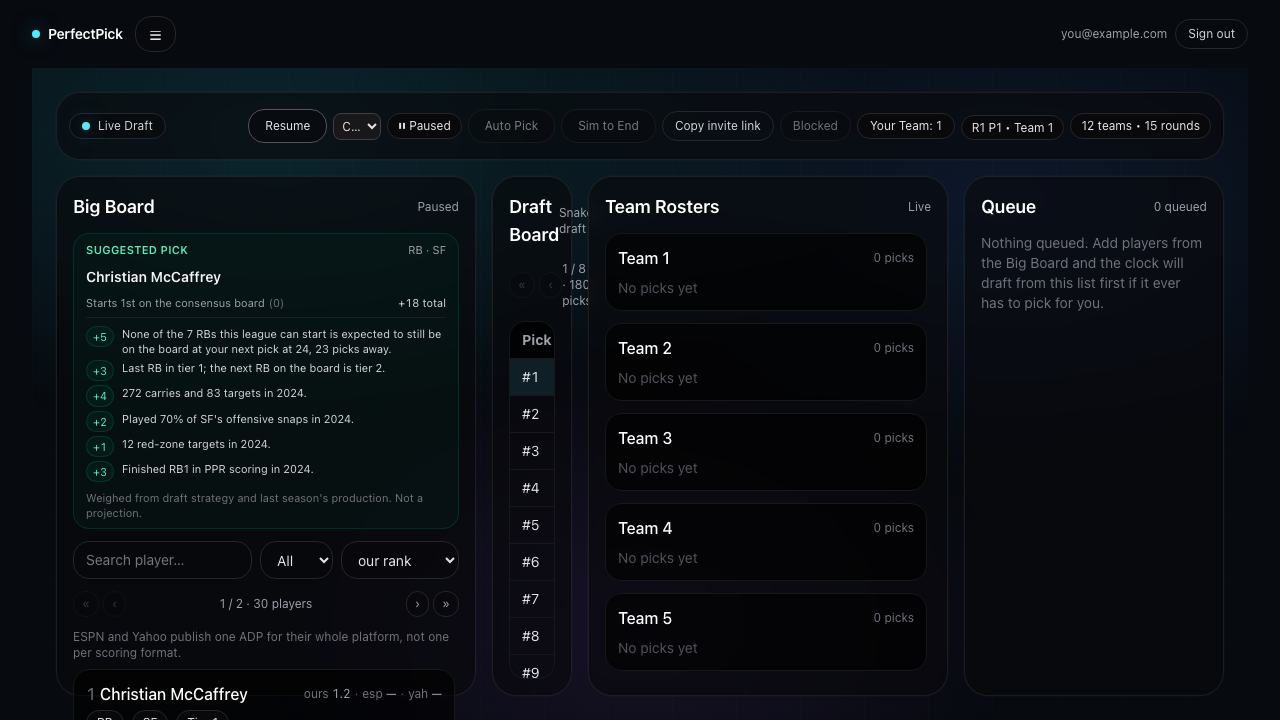
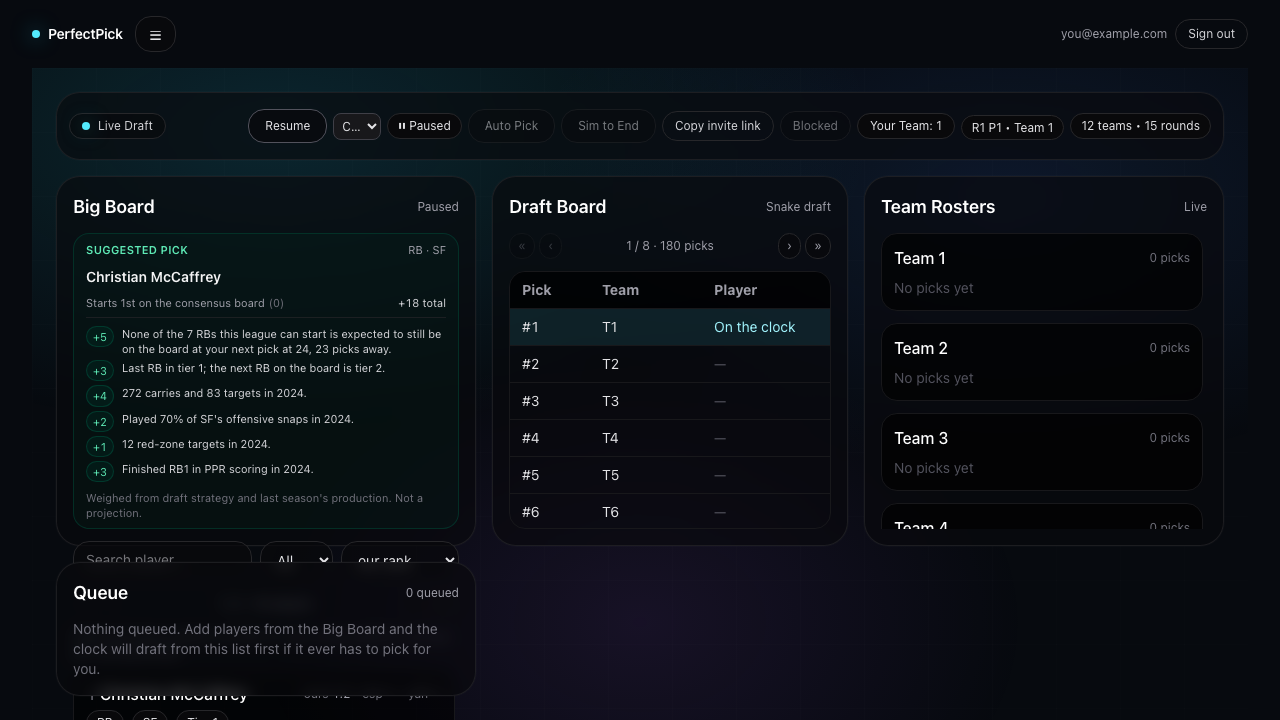
fix: the queue column belongs at 1600, not 1280
The plan put the fourth column at xl and I did the arithmetic for a 1600px
container without checking where that container actually applies. Measured
after it shipped: the Draft Board rendered at EIGHTY pixels at 1280 -- the
width the test suite itself runs at -- against a table that wants 620. It was
240 at 1440 and only reached today's 420 at about 1600.

The column and the widened container now share a 3xl breakpoint at 1600px.
Below it the layout is byte-identical to today (356 at 1280, 420 at 1440) and
the queue is a fourth cell in the three-column grid; above it there are four
columns and the Draft Board is WIDER than it is today (464 at 1728), because
the container widened with it.

3xl is a named breakpoint in @theme rather than an arbitrary min-[1600px]
variant, because Tailwind sorts arbitrary min-width variants BEFORE named
ones: the emitted xl:grid-cols rule sat after the min-[1600px] one and won at
every width above 1280. Silently -- the four-column layout simply never
applied, at any size. Found by reading byte offsets in the built CSS.

Tab labels shortened to Board / Draft / Rosters / Queue. "Draft Board" and
"Team Rosters" each wrapped to two lines the moment a fourth tab landed,
which the tab bar's own review predicted when there were three. The panels
keep their full headings.

diff --git a/frontend/src/pages/Draft.jsx b/frontend/src/pages/Draft.jsx
@@ -531,17 +531,15 @@ export default function Draft() {
 
       {/* Content */}
       {/*
-          xl:max-w-[1600px]: without this the container stayed capped at
-          1232px (max-w-7xl's 1280px minus this padding) regardless of the
-          monitor underneath -- a 1728px screen rendered the same 1232px a
-          1280px one did. Four columns inside that budget leave the Draft
-          Board 164px against a table that wants 620 (min-w-[620px] on its
-          own scroll container), which would have it scrolling horizontally
-          in a sliver on every screen. Widening at xl is what makes the
-          fourth column (the queue) free instead of paid for by the panel
-          that can least afford to shrink.
-      */}
-      <div className="relative mx-auto max-w-7xl xl:max-w-[1600px] px-6 py-6 min-h-full max-lg:h-full max-lg:px-3 max-lg:py-3 xl:h-full flex flex-col gap-4">
+          3xl (1600px): measured, not chosen. A fourth column only pays for
+          itself at about 1600px of viewport. Below that it is taken out of
+          the Draft Board, whose table wants 620px: at 1280 -- the width the
+          test suite itself runs at -- four fixed columns leave it EIGHTY
+          pixels. So the column and the widened container share one
+          breakpoint, and between lg and 1600 the queue is a fourth cell in
+          the three-column grid rather than a fourth column.
+        */}
+      <div className="relative mx-auto max-w-7xl 3xl:max-w-[1600px] px-6 py-6 min-h-full max-lg:h-full max-lg:px-3 max-lg:py-3 xl:h-full flex flex-col gap-4">
         {err && (
           <div data-testid="draft-error" className="rounded-2xl border border-red-900/60 bg-red-950/40 p-4 text-sm text-red-200">
             {err}
@@ -906,7 +904,7 @@ export default function Draft() {
             between lg and xl with no span on any of the four, which lands
             board+draft on one row and rosters+queue on the next; tabbed
             below lg via `pane`. */}
-        <div className="grid gap-4 lg:grid-cols-2 xl:grid-cols-[420px_minmax(0,1fr)_360px_260px] flex-1 min-h-0 min-w-0">
+        <div className="grid gap-4 lg:grid-cols-2 xl:grid-cols-[420px_minmax(0,1fr)_360px] 3xl:grid-cols-[420px_minmax(0,1fr)_360px_260px] flex-1 min-h-0 min-w-0">
             <div className={pane("board")}>
               <BigBoardPanel
                 draft={draft}

diff --git a/frontend/src/components/draft/TabBar.jsx b/frontend/src/components/draft/TabBar.jsx
@@ -3,9 +3,14 @@
 // an addition rather than a reflow: grid-cols-3 becomes grid-cols-4 and a row
 // joins TABS.
 const TABS = [
-  { id: "board", label: "Big Board", testid: "tab-board" },
-  { id: "draft", label: "Draft Board", testid: "tab-draft" },
-  { id: "rosters", label: "Team Rosters", testid: "tab-rosters" },
+  // Short labels, because four of them share 390px. "Draft Board" and "Team
+  // Rosters" each wrapped to two lines the moment Queue landed -- which the
+  // review of the tab bar predicted when there were three. The panels keep
+  // their full headings; a bottom nav is a place you tap, not a place you
+  // read, and every label here is unambiguous on its own.
+  { id: "board", label: "Board", testid: "tab-board" },
+  { id: "draft", label: "Draft", testid: "tab-draft" },
+  { id: "rosters", label: "Rosters", testid: "tab-rosters" },
   { id: "queue", label: "Queue", testid: "tab-queue" },
 ];
 

diff --git a/frontend/src/index.css b/frontend/src/index.css
@@ -1,5 +1,19 @@
 @import "tailwindcss";
 
+/*
+  A named breakpoint, not an arbitrary min-[1600px] variant, because Tailwind
+  sorts arbitrary min-width variants BEFORE the named ones -- so an
+  xl:grid-cols rule was emitted after a min-[1600px]:grid-cols rule and won at
+  every width above 1280, silently. Named breakpoints sort by value.
+
+  1600px is measured: the draft page's fourth column (the queue) only pays for
+  itself there. Below it the column comes out of the Draft Board, whose table
+  wants 620px -- at 1280 four fixed columns leave it eighty.
+*/
+@theme {
+  --breakpoint-3xl: 100rem;
+}
+
 :root {
   font-family: system-ui, Avenir, Helvetica, Arial, sans-serif;
   line-height: 1.5;
